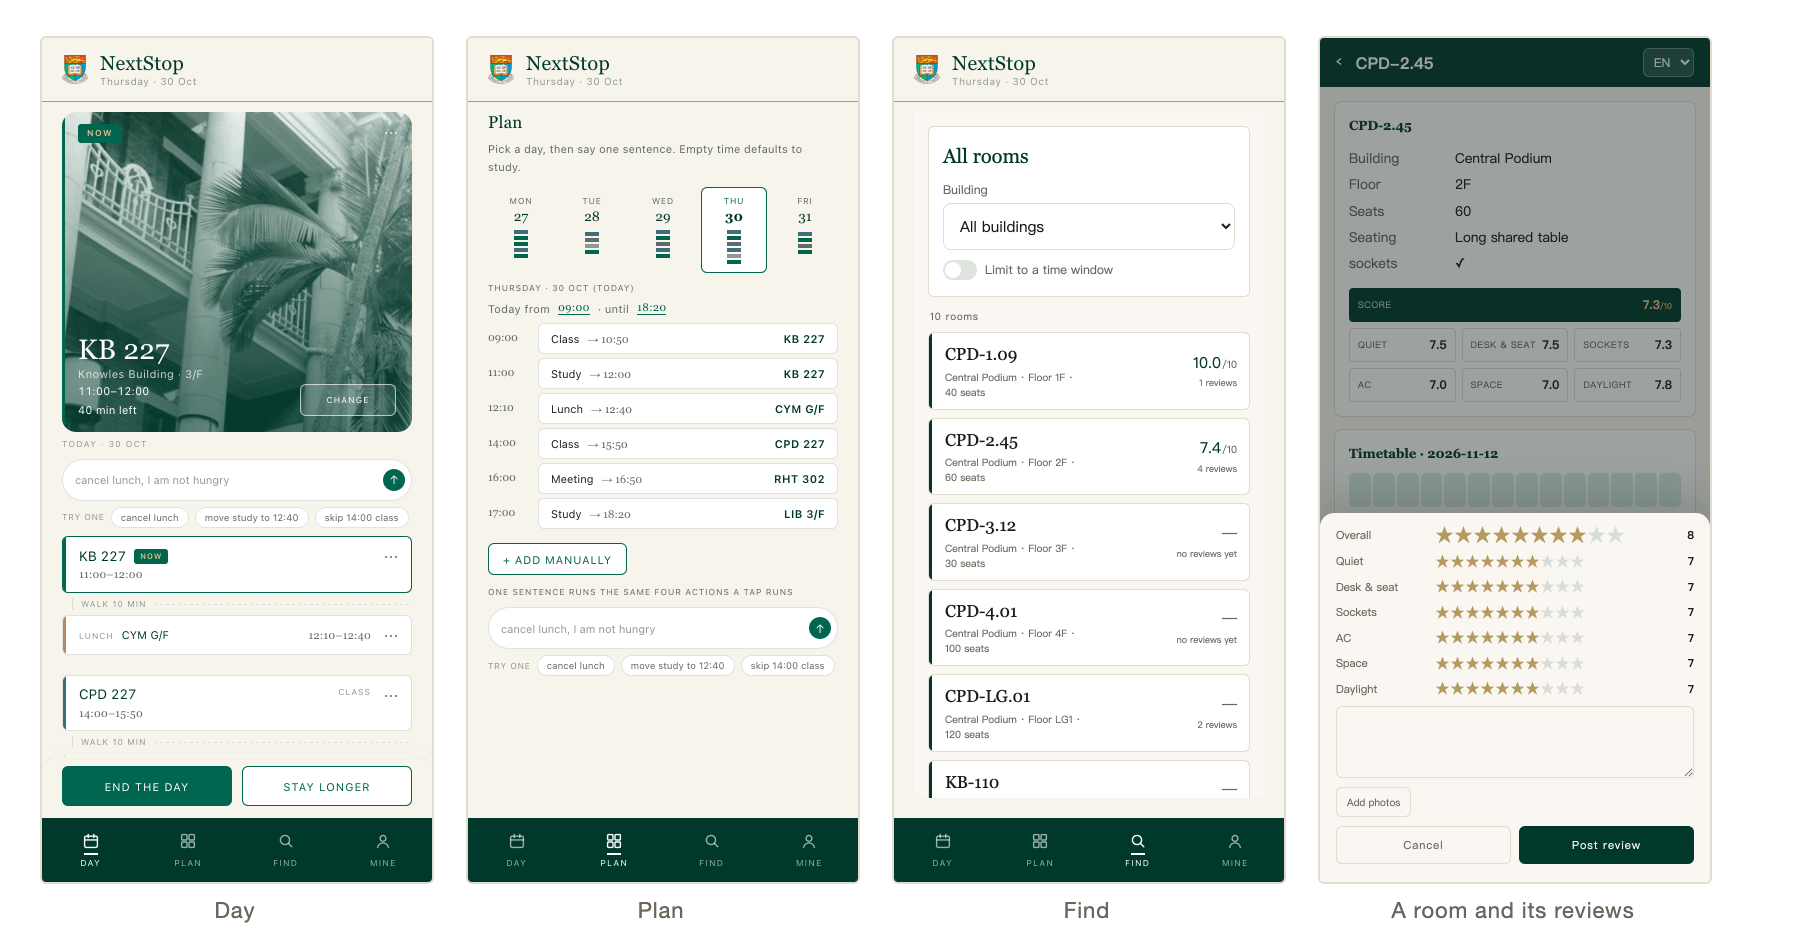
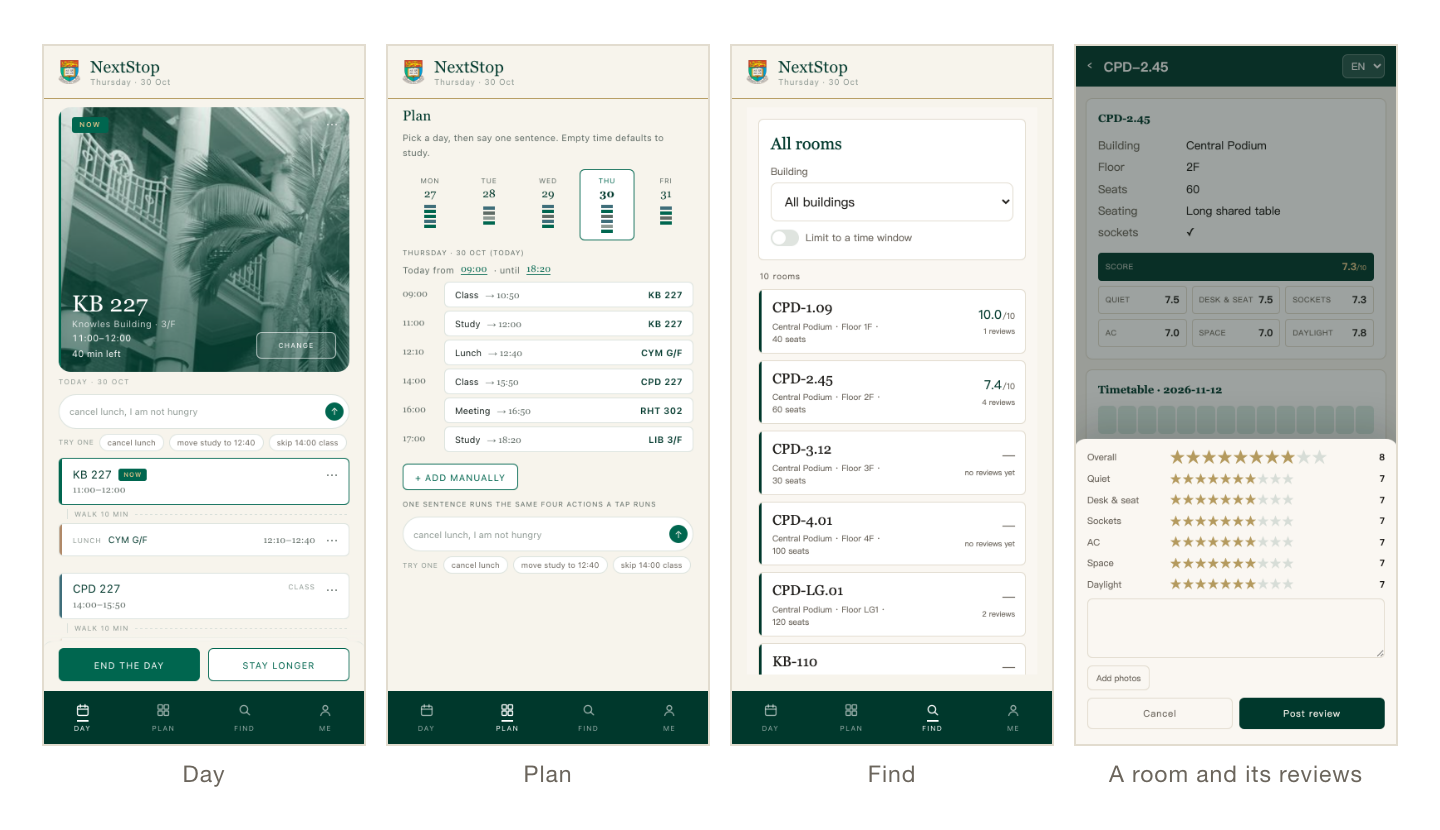
shots: four views on one strip, and the sentence box called out
The strip drops to four equal panes at 162pt each. The challenge four figure
puts the phone on the left with the field outlined and a panel on the right
naming it and listing four sentences with what each one changes. The fourth tab
now reads Me, as the report does.

diff --git a/product/demo/index.html b/product/demo/index.html
@@ -424,7 +424,7 @@ const STR = {
   language:{en:'Language',zh:'语言',tw:'語言'},
   day:{en:'Day',zh:'一天',tw:'一天'},
   plan:{en:'Plan',zh:'规划',tw:'規劃'},
-  mine:{en:'Mine',zh:'我的',tw:'我的'},
+  mine:{en:'Me',zh:'我的',tw:'我的'},
   changed:{en:'Something changed?',zh:'有变化？说一句',tw:'有變化？說一句'},
   askPh:{en:'cancel lunch, I am not hungry',zh:'取消午饭，我不饿',tw:'取消午飯，我不餓'},
   askTry:{en:'Try one',zh:'点一句试试',tw:'點一句試試'},
